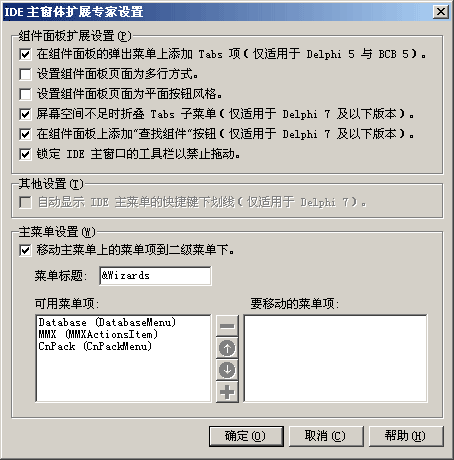
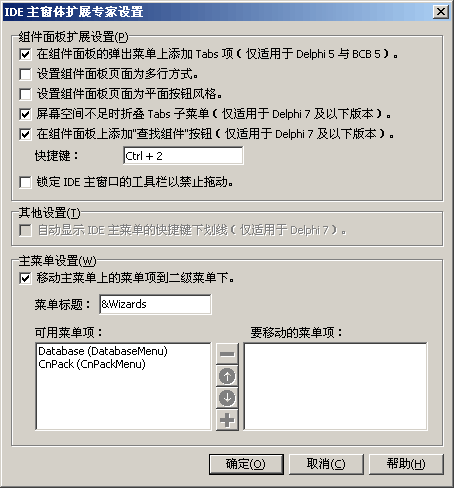
* [Main Window Enhancement] Update Status and Help Files.

Changed region(s): [[0.0, 0.0, 0.9868, 0.9739]]

diff --git a/Help/CnWizards_ENU/ideenhance/palette.htm b/Help/CnWizards_ENU/ideenhance/palette.htm
@@ -56,6 +56,9 @@
     <p class="text"><b>Add "Search Component" Button in Pallete</b>: Show an arrow button at the bottom-right corner of Palette to drop a window to search component quickly. It's available in Delphi 7 and below only, Unavailable in BDS. Please see the details below.</p>
   </li>
   <li>
+    <p class="text"><b>Shortcut</b>: You can specify the shortcut for showing "Search Component" Popup window.</p>
+  </li>
+  <li>
     <p class="text"><b>Lock IDE Toolbar to Disable Drag</b>: Disable the drag operation of toolbars and pallete in the Controlbar of IDE main form. It can prevent misoperation of toolbar's dragging when clicking them.</p>
   </li>
   <li>
